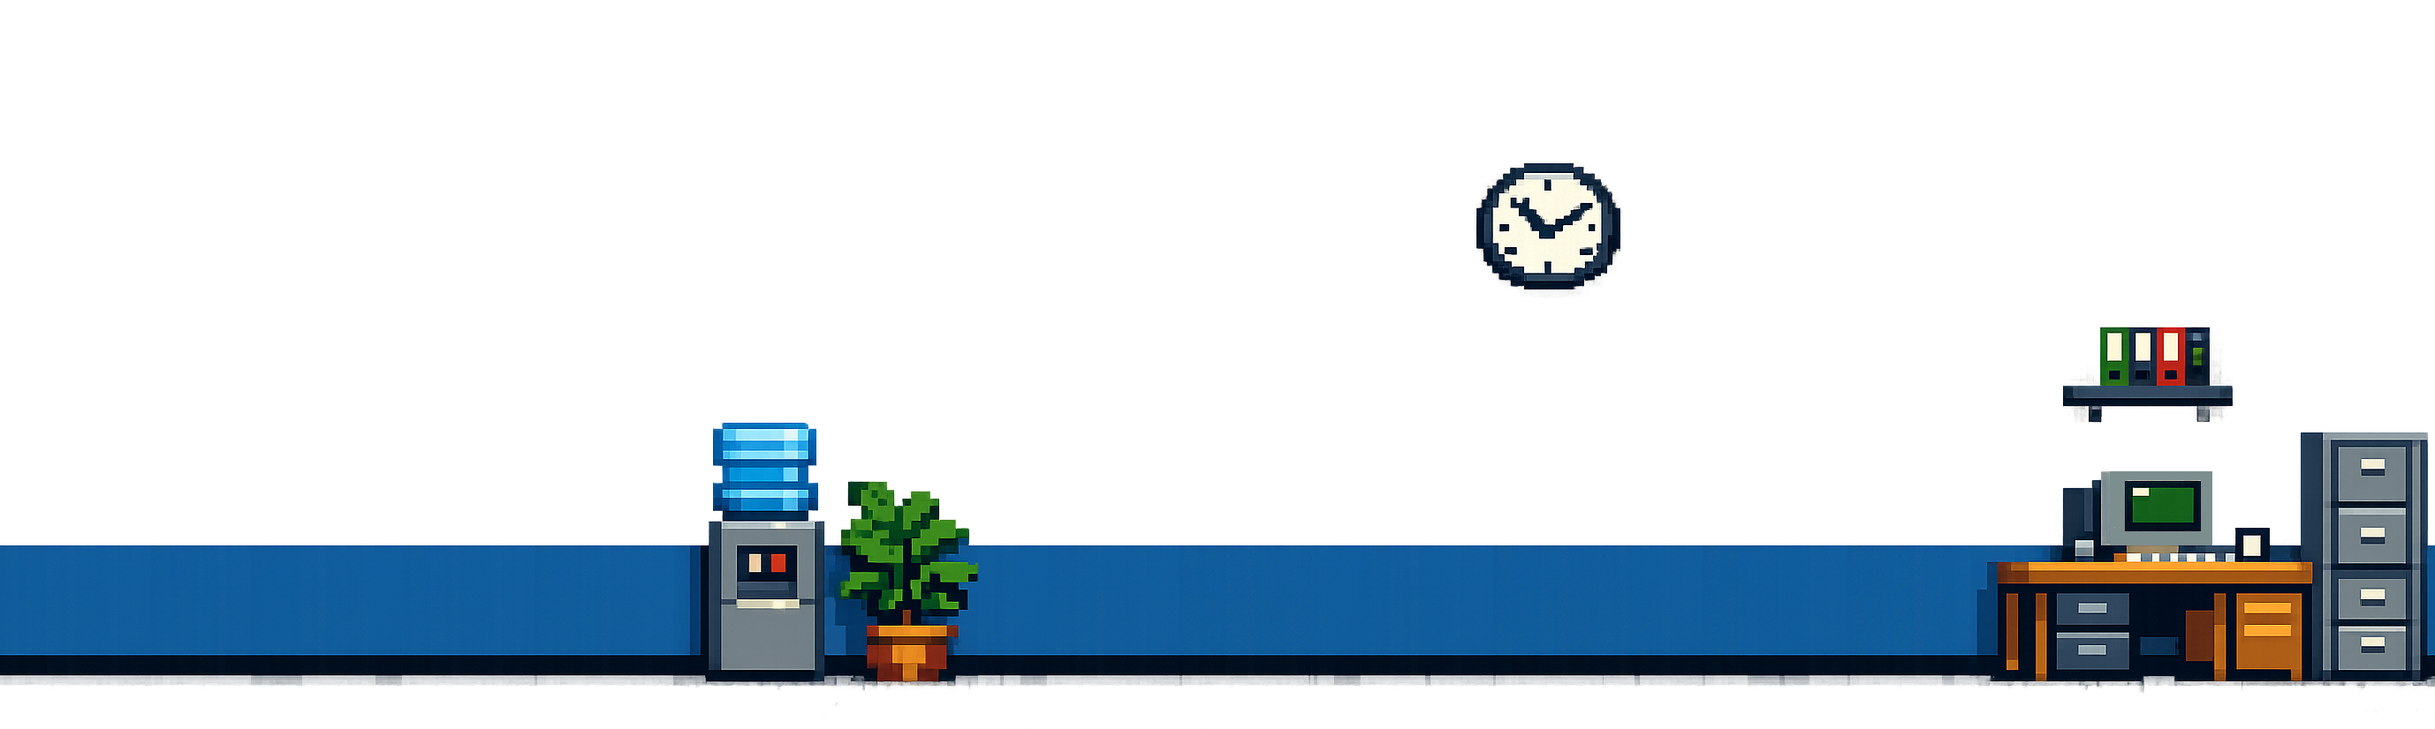
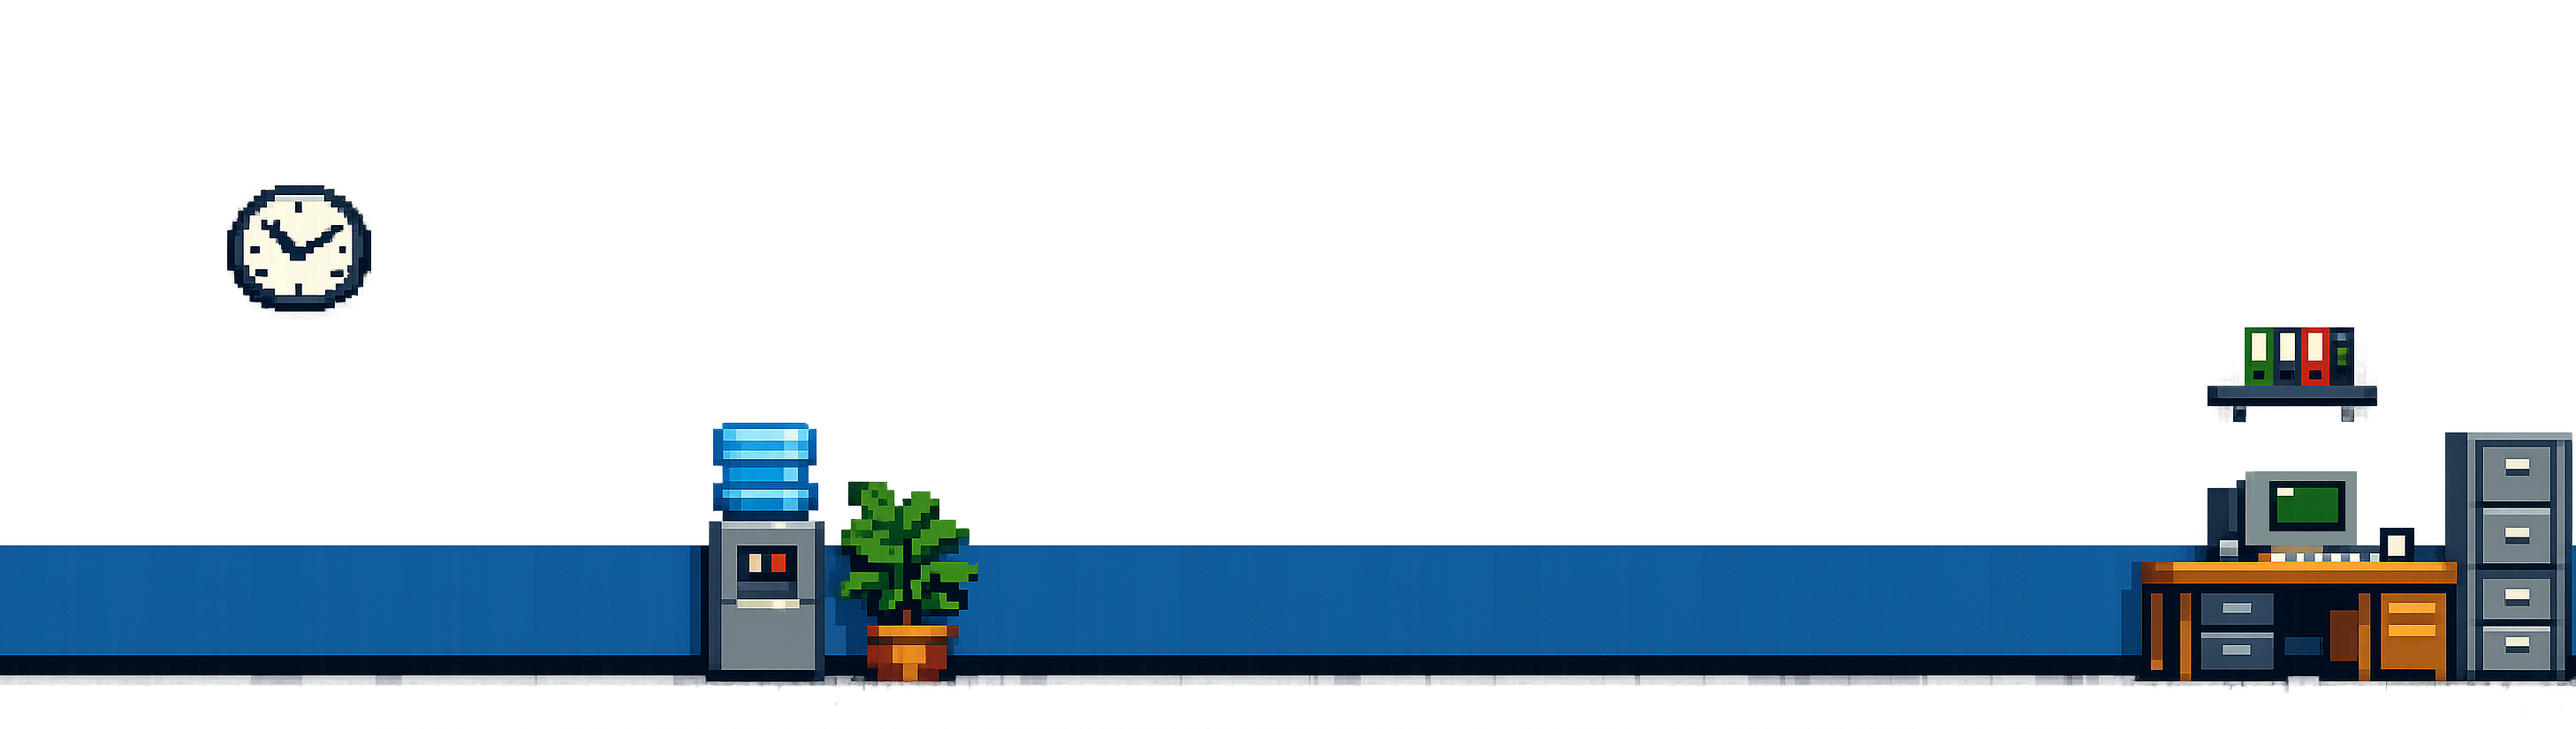
background update

diff --git a/app/page.tsx b/app/page.tsx
@@ -42,19 +42,19 @@ const POINTS = [
 	},
 	{
 		name: 'tasks',
-		position: 660,
+		position: 680,
 		text: 'Посмотреть задачи',
 		pages: 2,
 	},
 	{
 		name: 'closet',
-		position: 840,
+		position: 880,
 		text: 'Посмотреть дела',
 		pages: 2,
 	},
 	{
 		name: 'pc',
-		position: 970,
+		position: 1010,
 		text: 'Приступить к работе',
 		pages: 0,
 	},
